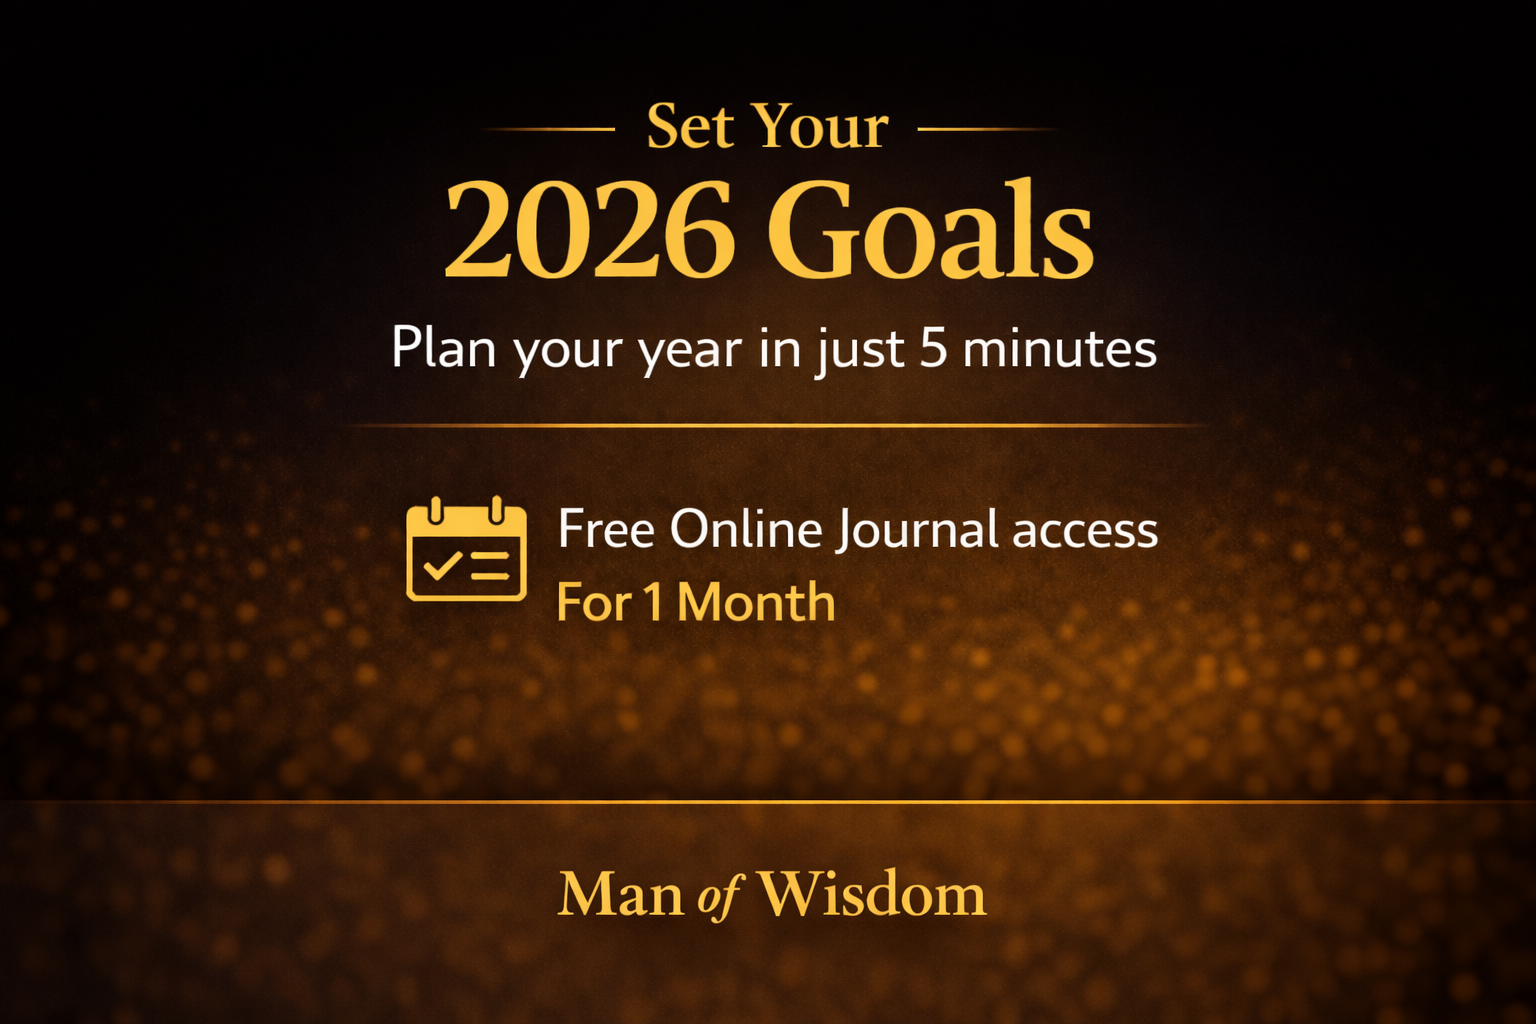
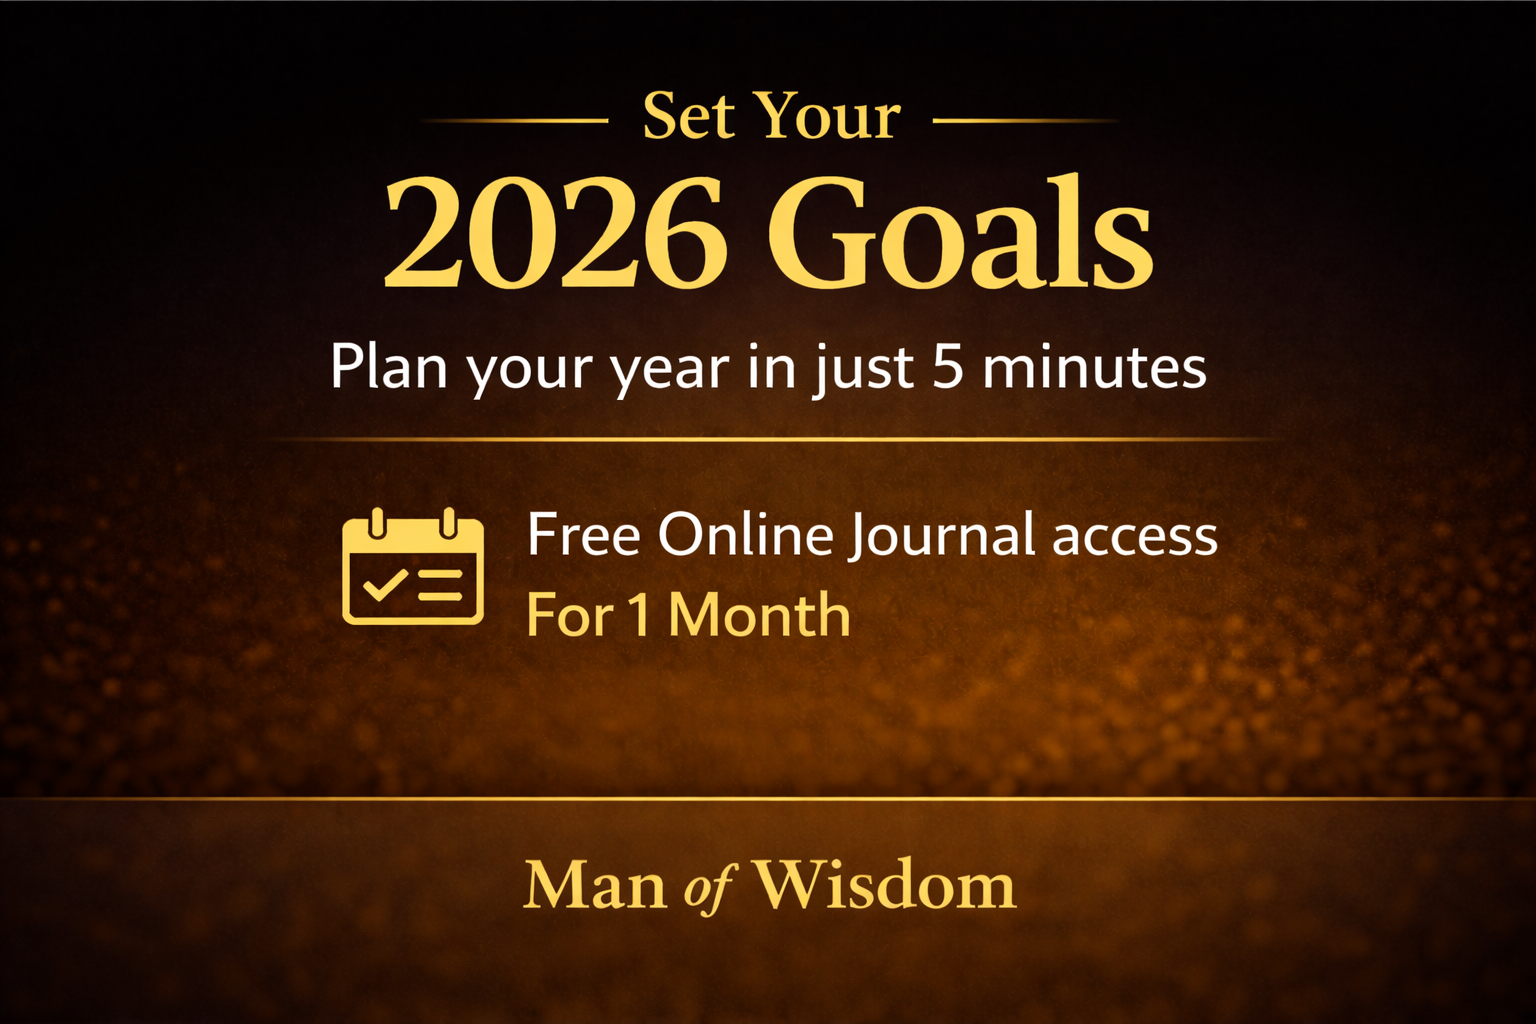
Update OG image with centered design
- Replace og-image.png with new properly centered image
- Update image dimensions in metadata (1536x1024)

diff --git a/goal-setter/app/layout.tsx b/goal-setter/app/layout.tsx
@@ -29,8 +29,8 @@ export const metadata: Metadata = {
     images: [
       {
         url: "https://goals.manofwisdom.co/og-image.png",
-        width: 1200,
-        height: 630,
+        width: 1536,
+        height: 1024,
         alt: "Set Your 2026 Goals - Man of Wisdom",
       },
     ],
